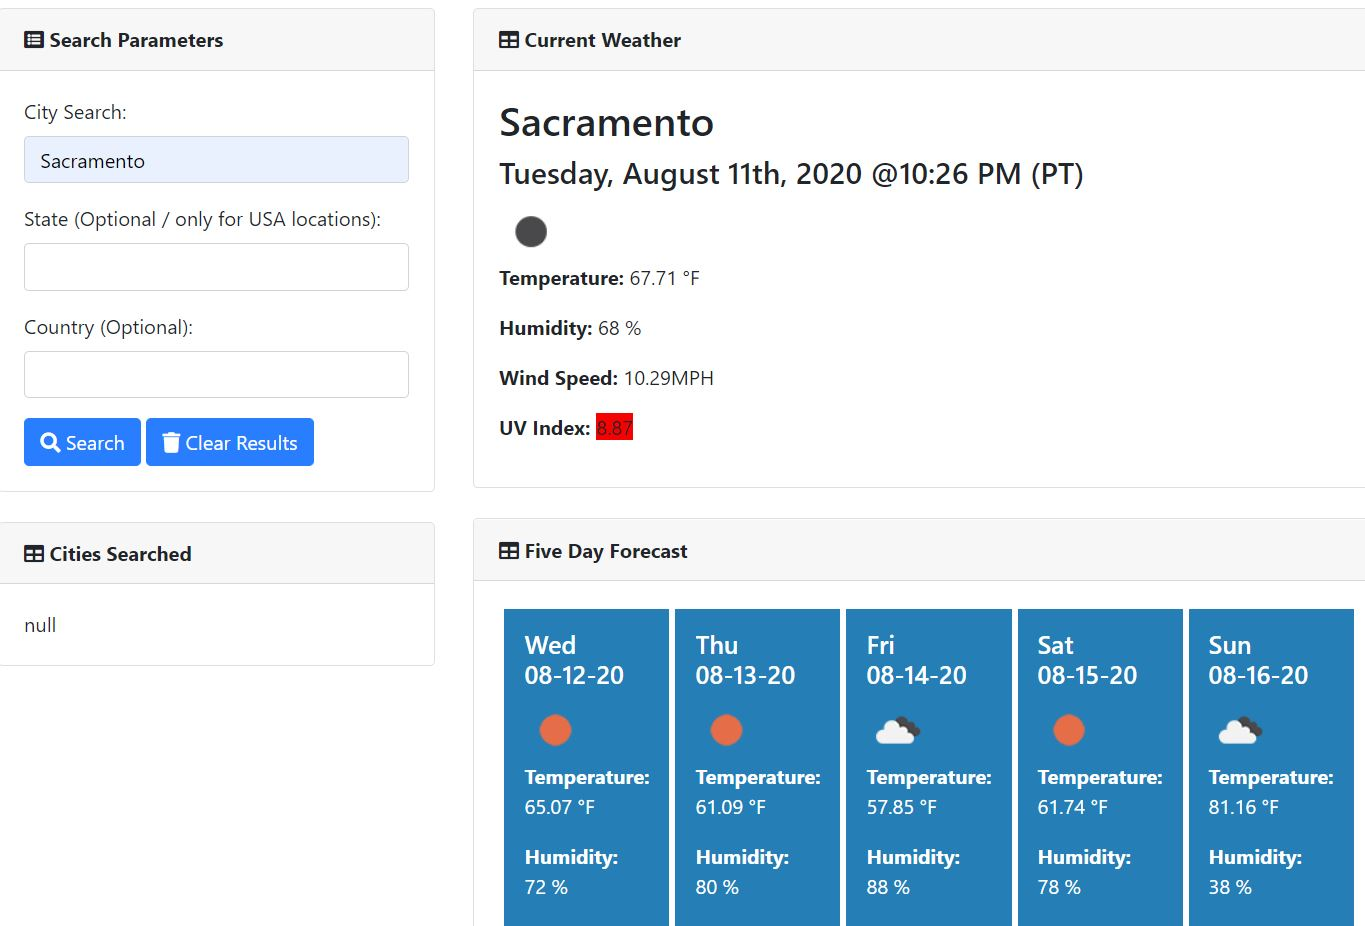
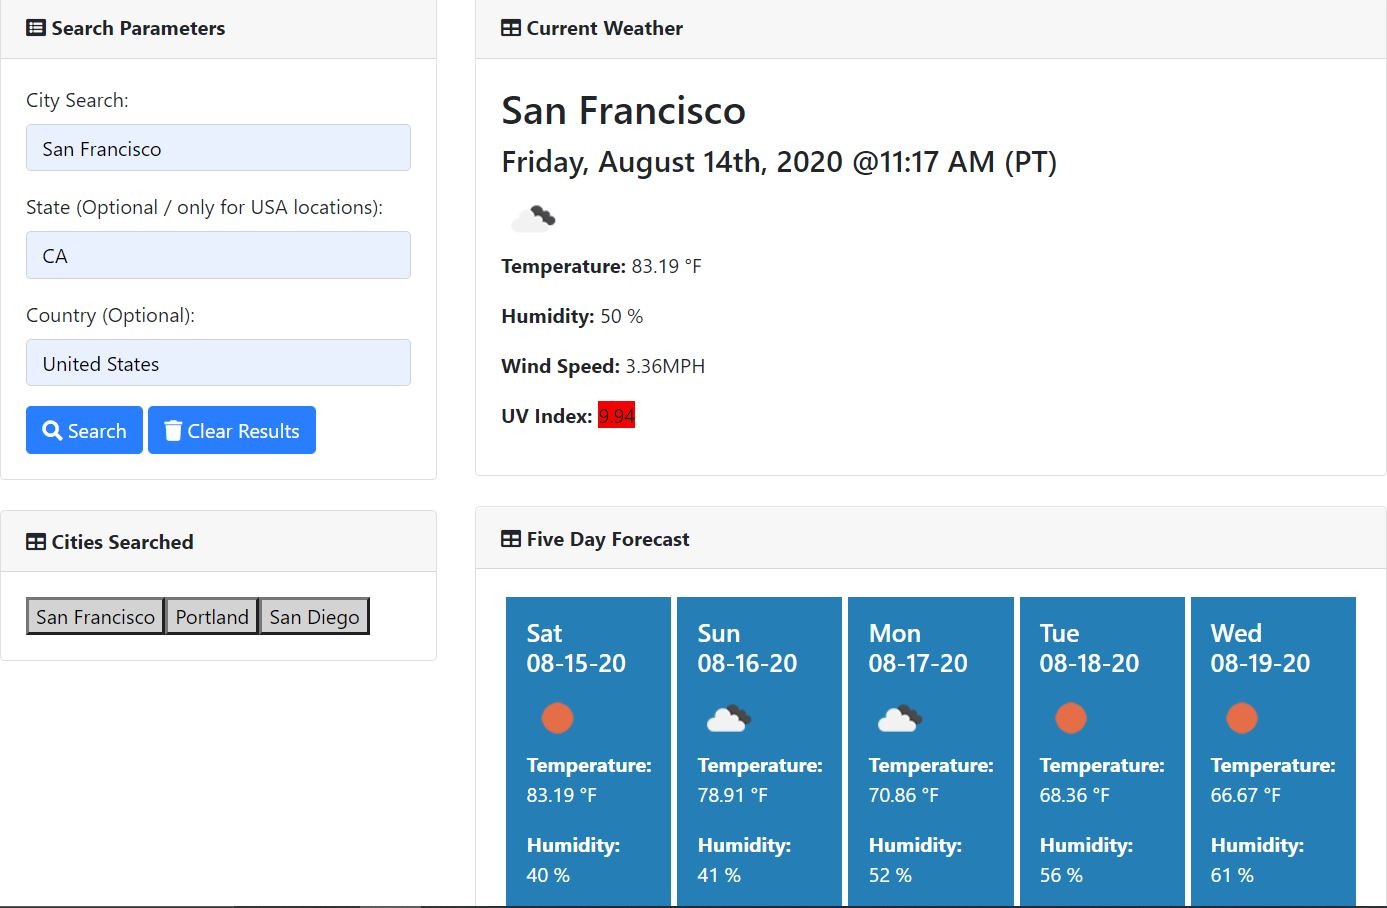
updated readme.

diff --git a/Assets/app.js b/Assets/app.js
@@ -1,5 +1,5 @@
 // GIVEN a weather dashboard with form inputs 
-// WHEN I search for a city THEN I am presented with current and future conditions for that city and that city is added to the search history [ ]
+// WHEN I search for a city THEN I am presented with current and future conditions for that city and that city is added to the search history [ X ]
 // WHEN I view current weather conditions for that city THEN I am presented with the city name, the date, an icon representation of weather conditions, the temperature, the humidity, the wind speed, and the UV index [ X ]
 // WHEN I view the UV index THEN I am presented with a color that indicates whether the conditions are favorable, moderate, or severe [ X ]
 // WHEN I view future weather conditions for that city THEN I am presented with a 5-day forecast that displays the date, an icon representation of weather conditions, the temperature, and the humidity [ X ]
@@ -14,16 +14,25 @@ $(document).ready(function() {
   const queryParams = { 
     'appid': '20062578d6282047a3d69cc7caf70ee7',
     'units': 'imperial'
-  };
+  }; 
   const currentWeatherDiv = $('#current-weather');
   const forecastDiv = $('#weekly-forecast');
   const searchedDiv = $('#city-section');
   const searchBtn = $('#run-search');
 
-  let savedCities = JSON.parse(localStorage.getItem('cities')) || [];
-  // console.log(typeof savedCities);
-  // console.log (savedCities);
-  searchedDiv.append(savedCities[savedCities.length-1]);
+// Establishes savedCities and makes sure last city searched is available
+  let savedCities = JSON.parse(localStorage.getItem('savedCities'));
+  if (!savedCities) {
+    savedCities = [];
+    localStorage.setItem('savedCities', JSON.stringify(savedCities));
+  } else if (savedCities[0] !== undefined) {  
+    const firstCityToAdd = savedCities[savedCities.length - 1];
+    let lastSavedBtn = $(`<button class="city-button">${firstCityToAdd}</button>`);
+    lastSavedBtn.attr("id", lastSavedBtn.text());
+    searchedDiv.append(lastSavedBtn);
+    searchedDiv.append(lastSavedBtn);
+  }  
+
 
   // This function will pull from the form and build the query URL for the current weather section.
   function buildQueryURL () {
@@ -87,27 +96,71 @@ $(document).ready(function() {
     
     currentWeatherDiv.append(cityInfo, weatherIcon, currentTemp, currentHumidity, windSpeed);
 
+//only want the 10 most recent submissions
+
     console.log(cityNameData);
-    // for (i = 0; savedCities.length >= 9; i++) {
-    //   var searchedCities = $(`<div>${localStorage.getItem(savedCities[i])}</div>`);
-    // }
-
-    // savedCities.push(cityNameData);
+    savedCities.push(cityNameData);
     console.log(savedCities);
+    updateTwice();
+  }
 
+  // updates local storage and savedCities[]
+  function updateTwice() {
+    searchedDiv.empty();
+    for (let i = 0 ; i < 10; i++) {
+      const cityToAdd = savedCities[savedCities.length - 1 - i];
 
-    for ( var i = 0, len = localStorage.length; i <= len; ++i ) {
-      let searchedCities = $(`<div>${localStorage.getItem(localStorage.key(i))}</div>`);
-      console.log(localStorage.key(0));
-      console.log(localStorage.getItem(localStorage.key(0)));
-      console.log(localStorage.getItem('cities'));
-      console.log(searchedCities);
-      searchedDiv.prepend(searchedCities);
+      if (cityToAdd) {
+        let cityButton = $(`<button class="city-button">${cityToAdd}</button>`);
+        cityButton.attr("id", cityButton.text());
+        searchedDiv.append(cityButton);
+
+        // add a click listener function for each button
+        cityButton.on('click', function (event) {
+          event.preventDefault();
+          
+          clearWeather();
+
+          let btnName = cityButton.text();
+
+          let btnWeatherURL = 'https://api.openweathermap.org/data/2.5/weather?q=' + btnName + '&units=' + queryParams.units +'&appid=' + queryParams.appid;
+
+          let btnUvURL = 'https://api.openweathermap.org/data/2.5/uvi?appid=' + queryParams.appid + '&lat=' + queryParams.lat + '&lon=' + queryParams.lon;
+
+          let btnForecastURL = 'https://api.openweathermap.org/data/2.5/forecast?q=' + btnName + '&units=' + queryParams.units + '&appid=' + queryParams.appid;
+          console.log("---------------\nURL: " + btnForecastURL + "\n---------------");
+
+          $.ajax({
+            url: btnWeatherURL,
+            method: "GET"
+          }).then(updateWeather); 
+
+          $.ajax({
+            url: btnUvURL,
+            method: "GET"
+          }).then(updateUvIndex); 
+
+          $.ajax({
+            url: btnForecastURL,
+            method: "GET"
+          }).then(clearForecast, updateForecast); 
+
+        });        
+        // reference cityButton in some way since it corresponds to a specific city
+        // on click write a new function or write the function in place for an ajax call similar to the one at the bottom of this file
+        // either write a new buildQueryURL (with a different name) that takes in an argument which would be city name
+        // OR refactor original buildQueryURL to take in an argument (in which case add an argument in your buildQueryURL call at the bottom of this file) => $('#search-city') value trim
+        // maybe call that buildQueryURL function before (or inside like before is ok) the ajax with your "cityToAdd" reference string
+        // .then update weather
+        // hopefully that works
+        // we are doing this within the for loop above because we want to refrence each indiv btn, depending on its text within cityToAdd, and we can't access it anywhere outside of this loop.
+      }
     }
 
-    localStorage.setItem("cities", JSON.stringify(savedCities));
-
+    // update localstorage
+    localStorage.setItem('savedCities', JSON.stringify(savedCities)); 
   }
+
 
   function buildUvURL () {
 
@@ -178,8 +231,18 @@ $(document).ready(function() {
     }
   }
 
+  // function to empty out weather div
+  function clearWeather () {
+    $('#current-weather').empty();
+  }
+
+  // Function to empty out forecast div
+  function clearForecast () {
+    $('#weekly-forecast').empty();
+  }
+
   // Function to empty out the cities
-  function clear() {
+  function clearResults() {
     $('#weekly-forecast').empty();
     $('#current-weather').empty();
     $('#city-selection').empty();
@@ -189,7 +252,7 @@ $(document).ready(function() {
   $("#run-search").on("click", function(event) {
     event.preventDefault();
 
-    clear();
+    clearResults();
       
     $.ajax({
       url: buildQueryURL(),
@@ -198,5 +261,5 @@ $(document).ready(function() {
   });
 
   //  .on("click") function associated with the clear button
-  $("#clear-all").on("click", clear);
+  $("#clear-all").on("click", clearResults);
 })

diff --git a/README.md b/README.md
@@ -20,10 +20,11 @@ PLEASE NOTE: if you open this scheduler in a different browser it will not save 
 
 This application is a work in progress, future updates will include: 
 
-1. Having the cities searched come up as a button instead of null, which when clicked will allow you to view your previous searches
+1. Having last city searched button appearing from local storage have an AJAX call
 2. Create proper logic for searching via state and country. (Only searching by city is currently supported)
 3. Verify App using [Nu Html Checker](https://validator.w3.org/nu/) 
 4. Check for ADA compliance using [Accessibility Insights for Web](https://accessibilityinsights.io/docs/en/web/overview)
+5. Have Forecast dispaly new 5-day forecast when clicking on a searched city button.
 
 ## Feedback
 
